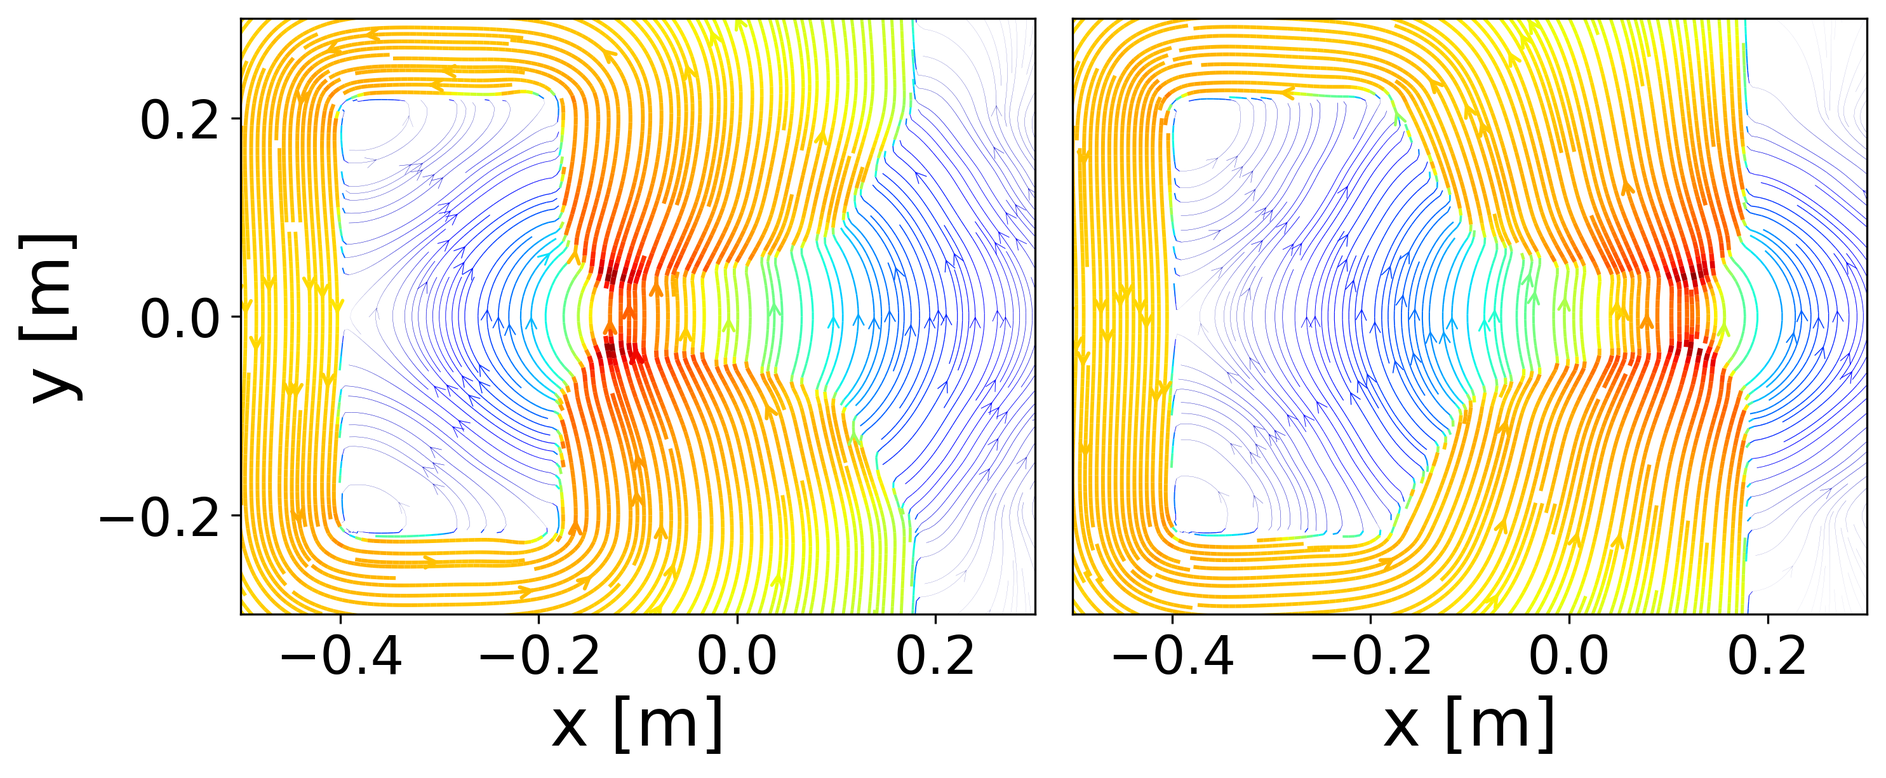
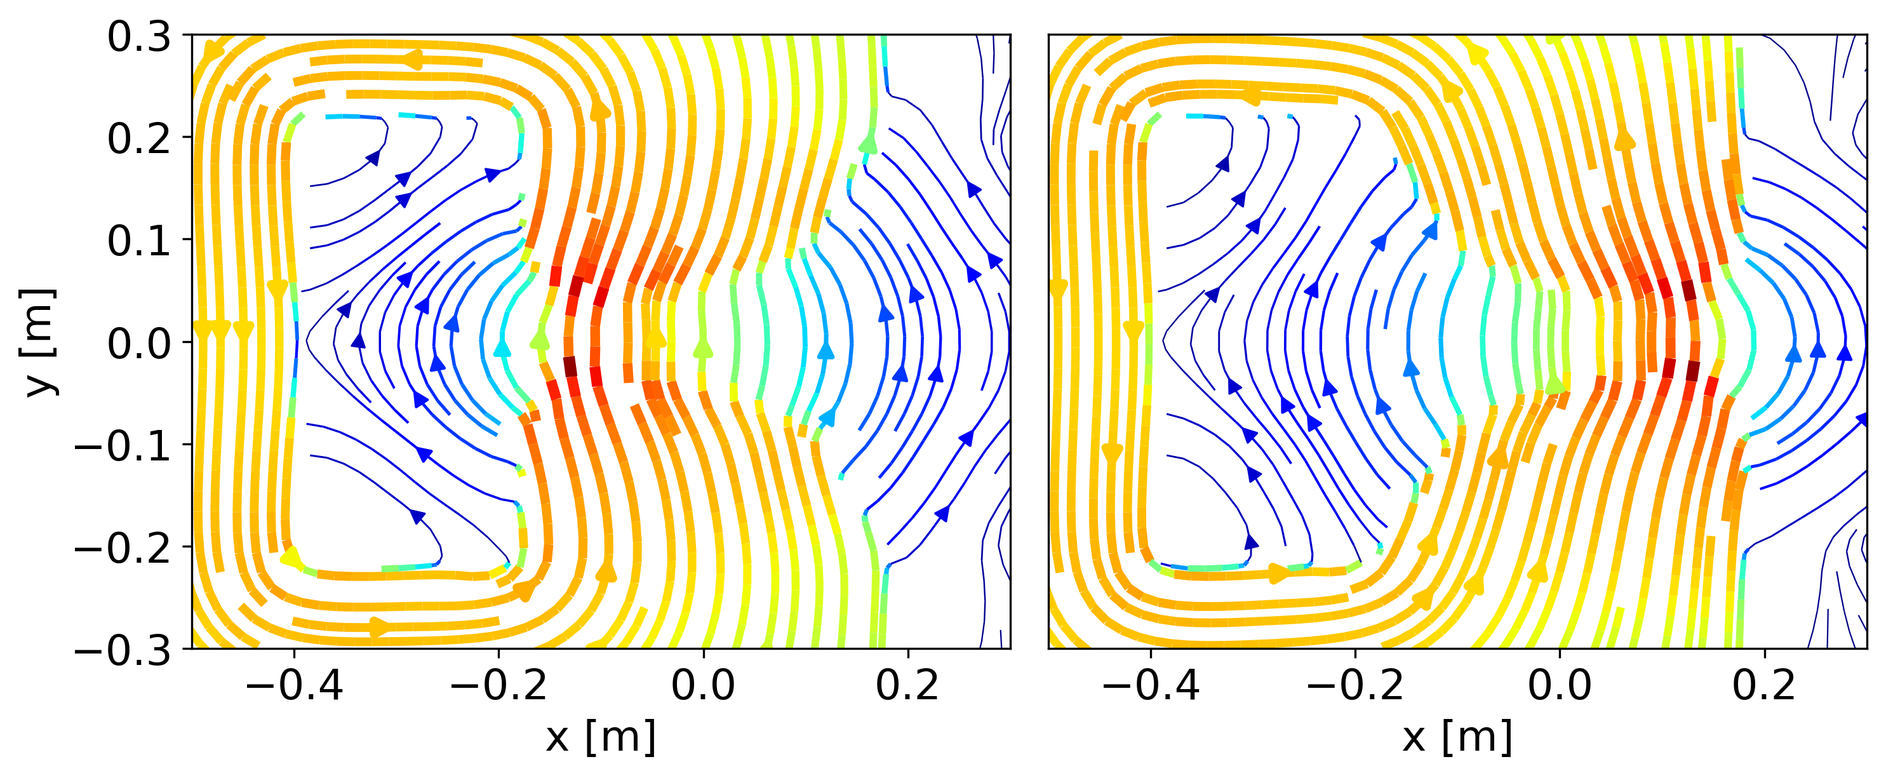
Emphasised on the East Area and the beam measurements. Also decreases the density of the streamplot.

diff --git a/MOPOTK030.tex b/MOPOTK030.tex
@@ -65,30 +65,37 @@
 
 %
 \begin{abstract}
-As the beam is injected and extracted from the CERN Proton Synchrotron (PS) it passes through the fringing magnetic fields of the Main bending Units (MUs). In this study, tracking simulations using field maps created from a 3D magnetic model of the MUs are compared to beam-based measurements made through the fast injection and slow extraction regions. The behavior of the fringe field is characterized, and its implementation in the MAD-X \cite{noauthor_mad_nodate} model of the machine is described.
+As the beam is injected and extracted from the CERN Proton Synchrotron (PS), it passes through the fringing magnetic fields of the Main bending Units (MUs). In this study, tracking simulations using field maps created from a 3D magnetic model of the MUs are compared to beam-based measurements made through the fast injection and slow extraction regions. The behaviour of the fringe field is characterised and its implementation in the MAD-X \cite{noauthor_mad_nodate} model of the machine is described.
 \end{abstract}
 
 
 \section{Introduction}
-When protons and ion beams are injected and extracted into the PS ring, they travel through the non-linear stray fields produced by the PS MUs. In these regions, an accurate optical model is imperative to ensure high transmission and preservation of transverse emittance. Scaling of the model with energy is required as the injection occurs at 2 GeV, and the extractions to the East Area and to the Super Proton Sychrotron (SPS) are at 24 GeV and 26 GeV, respectively. The stray field depends on the level of saturation in the MU and must be included in the model to accurately parameterise the effect on the beam over the wide range of beam energies provided by the PS. The model will be exploited for the Charm High-energy Ions for Micro Electronics Reliability Assurance (CHIMERA) project, which aims to deliver heavy-ion beams over a wide range of energies to study the effect of single event effects on electric, electronic, and electromechanical devices, both for research and industry users \cite{fraser:ipac22-wepost012}.
+When protons and ion beams are injected and extracted into the PS ring, they travel through the non-linear stray fields produced by the PS MUs. In these regions, an accurate optical model is imperative to ensure high transmission and preservation of transverse emittance. Scaling of the model with energy is required, as the injection occurs at 2 GeV, and the extractions to the East Area and to the Super Proton Sychrotron (SPS) are at 24 GeV and 26 GeV, respectively. The stray field depends on the level of saturation in the MU and must be included in the model to accurately parameterise the effect on the beam over the wide range of beam energies provided by the PS. The model will be used by the Charm High-energy Ions for Micro Electronics Reliability Assurance (CHIMERA) project, which aims to deliver heavy-ion beams over a wide range of energies to study the effect of single event effects on electric, electronic, and electromechanical devices, both for research and industry users \cite{fraser:ipac22-wepost012}. This study will describe a proposed model based on particle tracking through field maps of the PS MUs.
 
 \section{Field maps}
 \subsection{PS Main Units}
-The CERN PS is composed of 100 combined-function MU magnets that produce dipolar and quadrupolar fields simultaneously to provide strong focusing. Each magnet is divided into two half-units with quadrupole gradients of opposite polarity. Half-units are composed of five blocks of either closed blocks that are focusing (F) or open blocks that are defocusing (D), see Fig.\ref{fig:streamplot}.
+The CERN PS is composed of 100 combined-function MU magnets that produce dipolar and quadrupolar fields simultaneously to provide strong focusing. Each magnet is divided into two half-units with quadrupole gradients of opposite polarity. Half-units are composed of five blocks of closed blocks that are focusing (F) or open blocks that are defocusing (D); see Fig.\ref{fig:streamplot}.
 
 \begin{figure}[!htb]
    \centering
    \includegraphics*[width=1.0\columnwidth]{streamplot_defocusing_focusing.png}
-   \caption{Vector flow of an open defocusing yoke (left) and a closed focusing yoke (right)}
+   \caption{Vector flow of an open defocusing block (left) and a closed focusing block (right).}
    \label{fig:streamplot}
 \end{figure}
 
-There are four types of magnets: R, S, T and U, depending on the arrangement of the half-units (FD or DF) and whether the main coil is on the inside or outside of the ring \cite{steerenberg_fifty_2011}. Additional coils named the Pole Face Windings (PFW) and Figure-of-eight Loop (F8L) are inserted between the yoke and the vacuum chamber to control the tune and chromaticity. Although the good field region of the combined function magnet extends over a large part of the magnet aperture around the circulating beam orbit, see Fig.~\ref{fig:gradient_field}, the injection and extraction trajectory of the beam travels through strong regions of fringing or stray field. This is a consequence of the PS not being built with straight sections long enough for injection/extraction at high energy, forcing the extracted beam to travel through the stray fields of the MUs \cite{risselada_beam_nodate}.
+There are four types of magnets: R, S, T and U, depending on the arrangement of the half-units (FD or DF) and whether the main coil is on the inside or outside of the ring \cite{steerenberg_fifty_2011}. Additional coils named the Pole Face Windings (PFW) and Figure-of-eight Loop (F8L) are inserted between the yoke and the vacuum chamber to control the tune and chromaticity. Although the nominal field region of the combined function magnet extends over a large part of the magnet aperture around the circulating beam orbit, see Fig.~\ref{fig:gradient_field}, the injection and extraction trajectory of the beam travels through strong regions of fringing or stray field. This is a consequence of the PS not being built with straight sections long enough for injection/extraction at high energy, forcing the extracted beam to travel through the stray fields of the MUs \cite{risselada_beam_nodate}.
+
+\begin{figure}[!htb]
+   \centering
+   \includegraphics*[width=1.0\columnwidth, trim={0 0 0 0cm},clip]{Main_field_B_G_with_mask.png}
+   \caption{Dipole and gradient component of a  PS U-type MU centered in the vertical plane in both half-units at 24 GeV. The green-shaded central orbit region 14.4 cm wide represents the nominal field region. In this region, the gradient is constant within 5\% of the center gradient. Outside this region, the gradient is non-linear and, at its maximum, is almost three-fold higher in amplitude.}
+   \label{fig:gradient_field}
+\end{figure}
 
 \subsection{The OPERA model}
-A finite element magnetic model of the PS MU was developed using Cobham's \texttt{Opera-3D}~\cite{noauthor_opera_nodate, anglada_pxmu_hrcwp_nodate} to generate field maps for all four types of magnets and for different excitation currents in the main coils, as well as in the PFW and F8L. The model includes the main junction gap of 20 mm (a significant source of fringe field) between the two half units as well as the mini junctions between open blocks of 9.75 mm and 7.75 mm between closed blocks. A plane containing the geometry of open and closed yokes is swept in the longitudinal direction, allowing us to maintain high accuracy of the model, and reduces the computation time. This feature of a single plane also has limitations as it models straight magnets, while real magnets have a curvature. The density of the mesh is adjusted so that it has a high resolution in close proximity to the central orbit and at the junctions to capture the fringe fields \cite{anglada_reference_2019}.
+A finite element magnetic model of the PS MU was developed using Cobham's \texttt{Opera-3D}~\cite{noauthor_opera_nodate, anglada_pxmu_hrcwp_nodate} to generate field maps at different energies (different current in the main coils), different PFW, different F8L settings, and for all four magnet types. The model includes the main junction gap of 20 mm (a significant source of fringe field) between the two half-units as well as the mini junctions between open blocks of 9.75 mm and 7.75 mm between closed blocks. A plane containing the geometry of open and closed yokes is swept in the longitudinal direction, allowing us to maintain high accuracy of the model, and reduces the computation time. This feature of a single plane also comes with limitations, as it models straight magnets, whilst real magnets have a curvature. The density of the mesh is adjusted so that it has a high resolution in close proximity to the central orbit and at the junctions to capture the fringe fields \cite{anglada_reference_2019}.
 
-An example of vector field map ($B_x$, $B_y$, $B_z$) in a Cartesian coordinate system ($x$,$y$,$z$) produced by the \texttt{Opera-3D} model is presented in Fig.~\ref{fig:dipole_field}. The transverse displacement of the peak of the vertical dipole field $B_{y}$ along the z-axis corresponds to the switch from one half-unit to the next. The resolution of the field map is high enough to see the mini-junction between the five blocks. The \texttt{Opera-3D} model can be exploited to generate field maps at different energies, different PFW, different F8L settings, and for the different magnet types. 
+An example of a vector field map ($B_x$, $B_y$, $B_z$) in a Cartesian coordinate system ($x$,$y$,$z$) produced by the \texttt{Opera-3D} model is presented in Fig.~\ref{fig:dipole_field}. The transverse displacement of the peak of the vertical dipole field $B_{y}$ along the z-axis corresponds to the switch from one half-unit to the next. The resolution of the field map is high enough to see the mini-junction between the five blocks.
 
 \begin{figure}[!htb]
    \centering
@@ -98,28 +105,18 @@ An example of vector field map ($B_x$, $B_y$, $B_z$) in a Cartesian coordinate s
    \label{fig:dipole_field}
 \end{figure}
 
-The gradient can be calculated from the dipole field map using the following formula:
+The gradient is calculated from the dipole field component using the following formula:
  
 $$ \boldsymbol{G}(x_{j},z) = \frac{\Delta\boldsymbol{B}}{\Delta x} = \frac{\boldsymbol{B}(x_{i+1},z) - \boldsymbol{B}(x_{i},z)}{x_{i+1}-x_{i}} $$
 where,
 $$ x_{j} = \frac{x_{i+1} + x_{i}}{{2}} $$
- 
- As shown in Fig.~\ref{fig:gradient_field}, the gradient is constant and alternating in the central orbit region, but reverses signs at the periphery and increases in magnitude in a non-linear way.  In this region centered around 0 m and of total width of \char`\~0.144 m, the gradient is constant within 5\% of the center gradient.
 
+\subsection{Beam tracking}
 
-\begin{figure}[!htb]
-   \centering
-   \includegraphics*[width=1.0\columnwidth, trim={0 0 0 0cm},clip]{Main_field_B_G_with_mask.png}
-   \caption{Dipole and gradient component of a  PS U-type MU centered in the vertical plane in both half-units at 24 GeV. The gradient outside the green-shaded central orbit is non-linear and, at its maximum, is almost three-fold higher in amplitude.}
-   \label{fig:gradient_field}
-\end{figure}
-
-\subsection{Beam Tracking}
-
-Particle tracking through field maps is done using the Boris algorithm that tracks charged particles in EM-fields using the discretized equation of motion of the Lorentz force \cite{dutheil_pybttrackersborispy_nodate,qin_why_2013,ripperda_comprehensive_2018}. Field maps were produced for each magnet type at three different energies: injection at 2 GeV with 533 A, slow extraction to the east area at 24 GeV with 4642 A, and extraction to the SPS at 26.4 GeV with 5386 A. In the following, measurements and tracking studies of injection from the BTP transfer line to the PS and extraction from the PS to the East Area are discussed
+Particle tracking through field maps is done using the Boris algorithm that tracks charged particles in EM fields using the discretised equation of motion of the Lorentz force \cite{dutheil_pybttrackersborispy_nodate,qin_why_2013,ripperda_comprehensive_2018}. Field maps were produced for each magnet type at three different energies: injection at 2 GeV with 533 A, slow extraction to the east area at 24 GeV with 4642 A, and extraction to the SPS at 26.4 GeV with 5386 A. In the following, measurements and tracking studies of injection from the BTP transfer line to the PS and extraction from the PS to the East Area are discussed.
 
 \section{Injection via BTP}
-As the beam is injected via the BTP transfer line to the PS ring, it passes through the stray fields of the PR.BHT41 T-type MU magnet. The beam traverses mostly through the defocusing half part and feels a non-linear increase in the gradient up to the nominal value in the central orbit. Once through MU41, the beam is deflected by the injection septum magnet (PI.SMH42) towards the central orbit, see Fig.~\ref{fig:injection_btp}. Immediately downstream of the septum a Secondary Emission Grid (PI.BSG42) is available to measure the beam position and size.
+As the beam is injected through the BTP transfer line to the PS ring, it passes through the stray fields of the PR.BHT41 T-type MU magnet. The beam traverses mostly through the defocusing half part and feels a non-linear increase in the gradient up to the nominal value in the central orbit; see Fig.~\ref{fig:injection_btp}. Once through MU41, the beam is deflected by the injection septum magnet (PI.SMH42) towards the central orbit. Immediately downstream of the septum, a Secondary Emission Grid (PI.BSG42) is available to measure the position and size of the beam.
 
 \begin{figure}[!htb]
    \centering
@@ -128,7 +125,7 @@ As the beam is injected via the BTP transfer line to the PS ring, it passes thro
    \label{fig:injection_btp}
 \end{figure}
 
-To test the model measurements of the beam position and size on PI.BSG42 were collected as the current provided by the main power supply (POPS) to the MUs was varied. As expected, an increasing current shows the transverse position of the beam is bent closer towards the inside of the ring by the stronger stray field. The measurements were compared to simulations tracking a single particle through the 2 GeV T-type field map presented in Fig.~\ref{fig:injection_btp_transverse_position}. The tracking simulation over estimates the effect of the stray field because the magnetic model does not yet include the mu-metal shielding wrapped around the injection vacuum pipe. As expected, no deviation was observed in the vertical plane.
+To test the model, measurements of the beam position and size on PI.BSG42 were collected as the current provided by the main power supply (POPS) to the MUs was varied. As expected, an increasing current shows that the transverse position of the beam is bent closer towards the inside of the ring by the stronger stray field. The measurements were compared to simulations that tracked a single particle through the 2 GeV T-type field map presented in Fig.~\ref{fig:injection_btp_transverse_position}. The tracking simulation overestimates the effect of the stray field because the magnetic model does not yet include the mu-metal shielding wrapped around the injection vacuum pipe. As expected, no deviation was observed in the vertical plane.
 
 \begin{figure}[!htb]
    \centering
@@ -137,41 +134,39 @@ To test the model measurements of the beam position and size on PI.BSG42 were co
    \label{fig:injection_btp_transverse_position}
 \end{figure}
 
-The stray field was implemented into the MAD-X model as a sequence of multipole field components (MFC model) expanded along the reference trajectory. A simplified approach with the fields components extracted on an injected trajectory assumed as straight line was compared with measurements in Fig.~\ref{fig:injection_btp_beam_size}, where the beam size at PI.BSG42 is plotted as a function of the POPS current. We find good agreement in the horizontal plane but a mismatch in the vertical plane. A quadrupole scan of this region was performed and an analysis will tell us whether this is the result of incorrect initial parameters.
+The current implementation of the stray field in the \mbox{MAD-X} model is done as a sequence of Multipole Field Components (MFC model) expanded along the reference trajectory. A simplified approach with the field components extracted on an injected trajectory assumed as a straight line was compared with the measurements in Fig.~\ref{fig:injection_btp_beam_size}, where the beam size at PI.BSG42 is plotted as a function of the POPS current. We find good agreement in the horizontal plane but a mismatch in the vertical plane. A quadrupole scan of this region was performed, and an analysis will tell us whether this is the result of incorrect initial parameters. Similar MFC models for injection and extraction will be created using a single tracked particle and the decomposition into a Taylor series of the magnetic field orthogonal to the deflected trajectory at discrete intervals.
 
 \begin{figure}[!htb]
    \centering
    \includegraphics*[width=1.0\columnwidth]{Beam_size_vs_POPS.png}
-   \caption{Measurements of the BT3 BTP PS beam size as a function of POPS at PI.BSG42 compared with the MCP model.}
+   \caption{Measurements of the BT3 BTP PS beam size as a function of POPS at PI.BSG42 compared with the MFC model.}
    \label{fig:injection_btp_beam_size}
 \end{figure}
 
 \section{Extraction to the East Area}
-The beam extracted to the East Area is significantly affected by the stray fields in multiple main units because the slow extracted trajectory at high energy has a much shallower angle than at injection. As presented in Fig.~\ref{fig:stray field gradients}, the difference in the gradient of MU62 is remarkable where the sign of the gradient flips and triples in amplitude. As a result, an increase in the horizontal beam size is expected at the exit of MU62. It is not understood why this magnet was never shimmed in the past to help reduce the effect of the stray field, but it is undoubtedly the cause of the optics discrepancy observed during commissioning of the East Area transfer lines in 2021 \cite{huschauer:ipac22-mopost006}.
-
-\textbf{Add your simple bar chart gradient comparison here: perhaps don't include MU63}
+The beam extracted to the East Area is significantly affected by the stray fields in multiple main units because the slow extracted trajectory at high energy has a much shallower angle than at injection. As presented in Fig.~\ref{fig:stray field gradients}, the difference in the gradient of MU62 is striking in that the sign of the gradient flips and triples in amplitude. As a result, an increase in the horizontal beam size is expected at the exit of MU62. It is not understood why this magnet was never shimmed in the past to help reduce the effect of the stray field (perhaps because they would significantly impact the central orbit \cite{Zickler:private}), but it is undoubtedly the cause of the optics discrepancy observed during commissioning of the East Area transfer lines in 2021 \cite{huschauer:ipac22-mopost006}.
 
 \begin{figure}[!htb]
    \centering
-   \includegraphics*[width=1.0\columnwidth]{gradient_focusing.png}
-   \caption{Gradient seen by the slow extracted beam in the stray field of the MUs. A succession in defocusing gradients at extraction is observed.}
+   \includegraphics*[width=1.0\columnwidth]{gradient_focusing_poster.png}
+   \caption{Gradient seen by the slow extracted beam in the stray field of the few last MUs's focusing half-unit.}
    \label{fig:stray field gradients}
 \end{figure}
 
 \subsection{Magnetic shims}
 
-To counteract stray fields, magnetic shims are installed in MU16 (fast extraction to SPS) and MU63 (slow extraction to East Area) to homogenize the field by shielding the ejected beam from the non-linear fringe field \cite{zickler_influence_nodate}. In MU16, the shims have different radial positions for each of the five different shims, whereas in MU63, the vacuum pipe is covered with a constant rectangular shim. In MU62, no shims are installed, where the model predicts the most important stray field effect. In a next step the shim geometry will be incorporated into the \texttt{OPERA-3D} model, which will significantly increase the computation time of the finite element solver due to the increased complexity of the geometries.
+To counteract stray fields, magnetic shims are installed in MU16 (fast extraction to SPS) and MU63 (slow extraction to East Area) to homogenise the field by shielding the ejected beam from the non-linear fringe field \cite{zickler_influence_nodate}. In MU16, the shims have different radial positions for each of the five different shims, while in MU63, the vacuum pipe is covered with a constant rectangular shim. In MU62, no shims are installed, where the model predicts the most important stray field effect. In a next step, the shim geometry will be incorporated into the \texttt{OPERA-3D} model, which will significantly increase the computation time of the finite element solver due to the increased complexity of the geometries, but allow for a more accurate representation of the actual stray fields.
 
 \subsection{Measurement of the extracted beam parameters}
 
-Quadrupole scans through the stray fields have been made using a combination of quadrupoles to change the beam size and measure it on the BTV screens of the East Area's dump line. The BTVs allows use to measure the position and the beam size as the quadrupoles focuse and defocus the beam. The measurements are then run in MAD-X with different initial conditions to find the ones that match the best. The BTVs aren't very precise, some are very noisy because of there old age and they all saturate at the extraction energy. Filter wheels have been installed and will allows more accurate initial parameter measurement. Additionally, an independent Dispersion measurement will be tried to reduce a degree of freedom.
-Also Kick response measurements have been made. Further studies should be performed to verify whether the initial parameters measured in the East Area are similar to those found by tracking through the field maps.
+Quadrupole scans have been performed through stray fields that pulse a different combination of quadrupoles at different currents. The effects on the position and beam size are measured with Beam instrumentation - TV (BTV) screens. Initial parameters for the East Area's lines can be found by fitting a MAD-X simulation with different initial conditions against the measurements. BTVs are not ideal instruments for performing these measurements; they are noisy, imprecise, and saturate at the extraction intensities. Filter wheels have been installed to reduce saturation, allowing for more accurate initial parameter measurement. In addition, a dispersion measurement will be performed to reduce the degrees of freedom of fit.
+Kick response measurements have also been measured, and further studies will confirm whether the initial parameters measured in the East Area are similar to those found by tracking through the field maps.
 
 %\textbf{State clearly the efforts we are going to here to measure the beam parameters that come out of the machine and through the stray fields. State the quad scan technique and challenges with lack of instrumentation but that work continues with BTVs and additional of filter wheels for a comparison with simulation}
 
 
 \section{SUMMARY AND OUTLOOK}
-The results of this study indicate that the OPERA model using tracking routines is suitable to characterize stray fields in the PS MU, as it has led to the same conclusions as made by earlier studies in the case of the extraction to the East Area and empirically confirmed through measurements at injection. Some limitations should be considered. First, the straight model of the MU is an approximation of the physical magnet, and second, the lack of shims in the model might not be suitable to fully describe the operational beam. This work will be valuable for CHIMERA during ions runs and provides the backbone to create multipole field components models to the East Area and to the LHC.
+The results of this study indicate that the \texttt{OPERA-3D} model using tracking routines is suitable to characterise stray fields in the PS MUs, as it has led to the same conclusions as made by earlier studies \cite{manglunki_beam_1997} in the case of extraction to the East Area and empirically confirmed through measurements at injection. Some limitations should be considered: first, the straight model of the MU is an approximation of the physical magnet, and second, the lack of shims in the model might not be suitable to fully describe the operational beam. This work will be valuable for CHIMERA during ion runs and provides the backbone to create multipole field component models to the East Area and to the LHC.
 
 % REFERENCES
 \printbibliography
